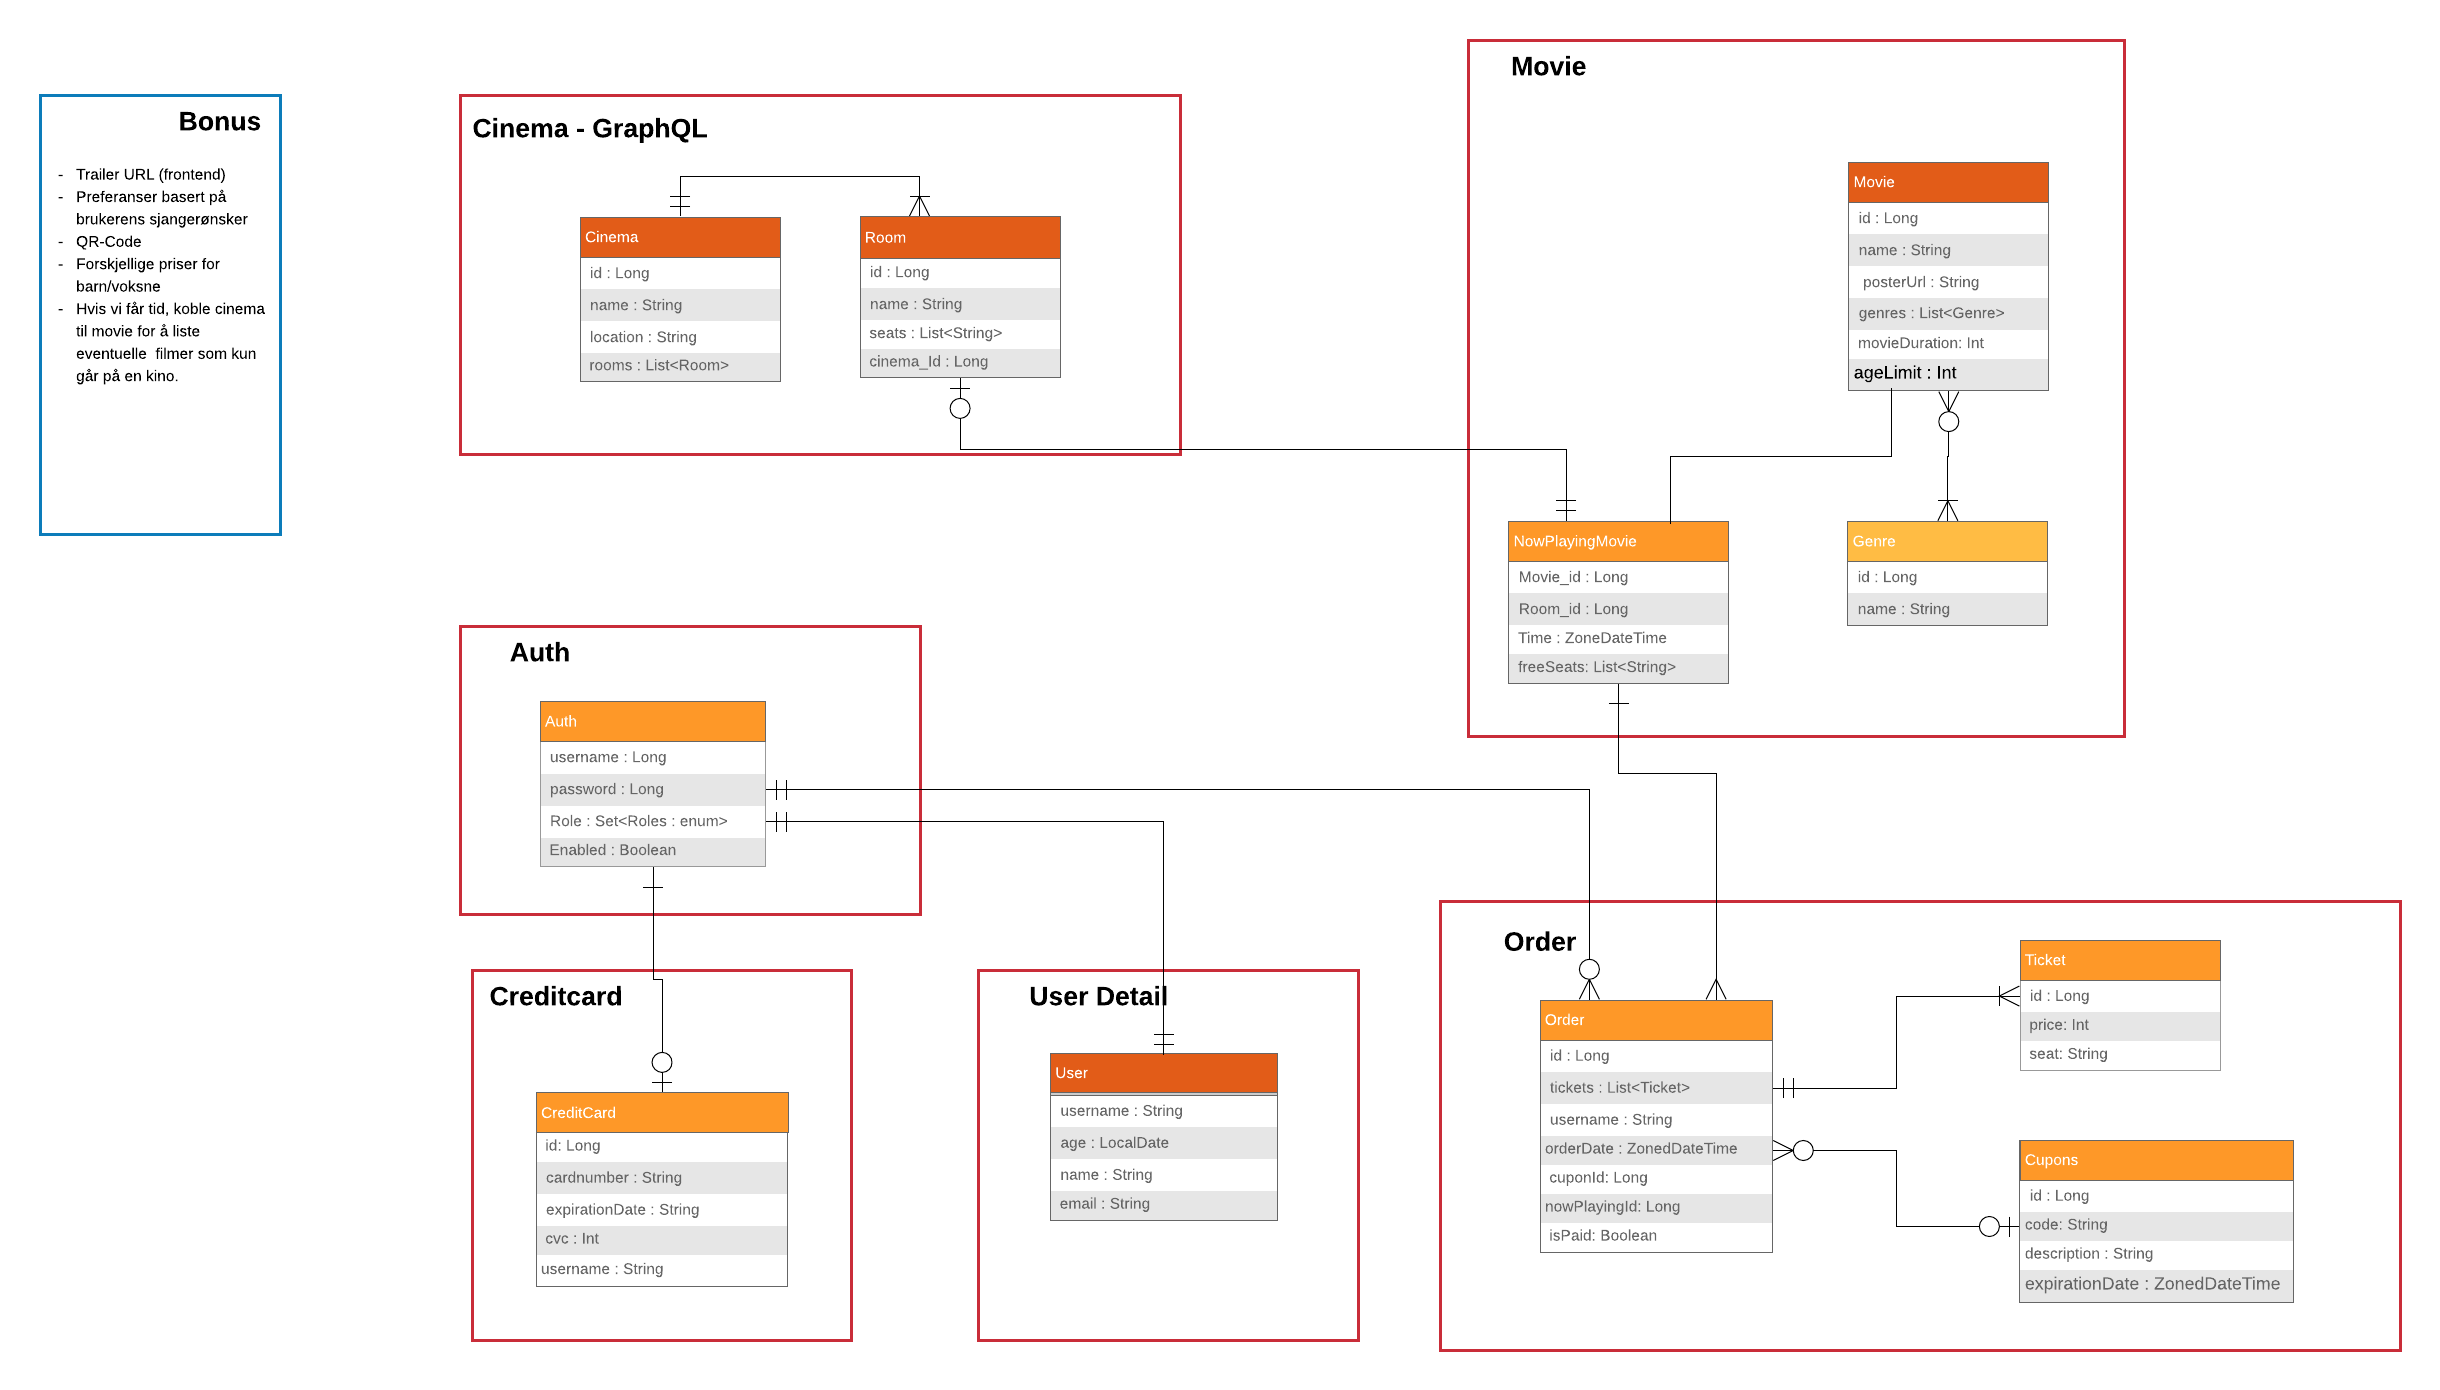
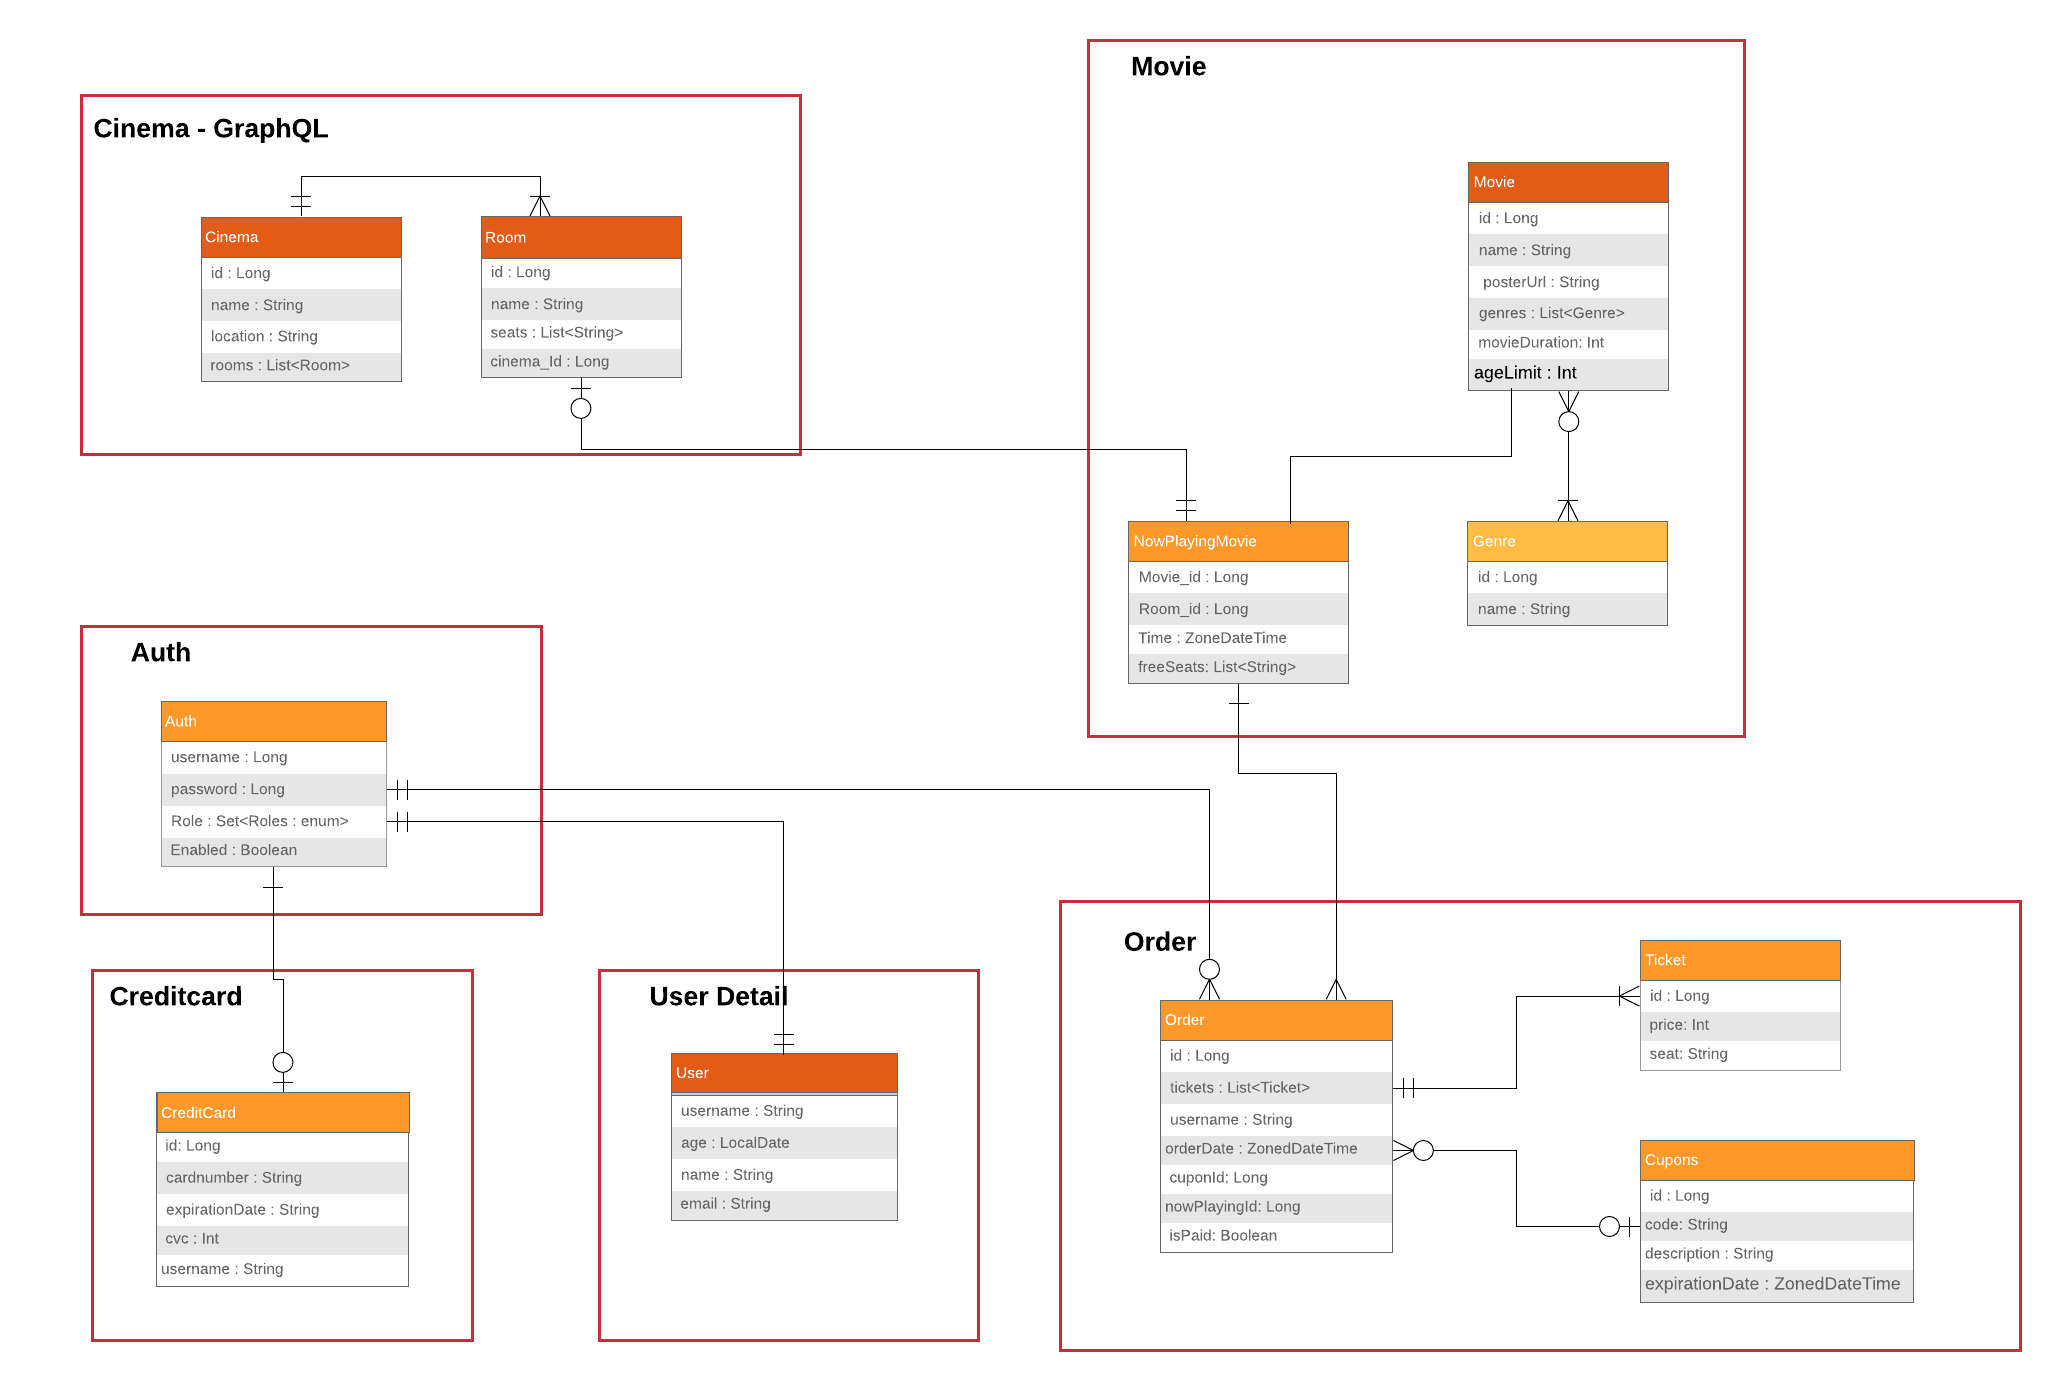
readme

diff --git a/README.md b/README.md
@@ -17,7 +17,7 @@
 1. [Exam 2018 Document](docs/PG6100Exam.pdf)   
 2. [Distribution of work](docs/workdistribution.md)
 3. [Git Structure](docs/git.md)    
-4. [Database Model](docs/databasemodel.md)    
+4. [Database Model](docs/imgs/EarDiadram(1).png)    
 5. [Module Diagram](docs/modulediagram.md)  
 6. [Coverage Report](docs/coveragereport.md)  
 7. [Default Data](docs/defaultdata.md)  
@@ -35,7 +35,7 @@ This Cinema Application is an exam project in PG6100 - Enterprise 2.
   
 ## How to run
 **Make sure that your Docker desktop-application has allocated enough CPU-cores and RAM!!** 
-**When we developed this application we have allocated 4-cores and 8GB of RAM**
+**When we developed this application we have allocated 4-cores and 10GB of RAM**
 
 1. Clone or fork this project.
 2. To install the application:
@@ -44,14 +44,18 @@ This Cinema Application is an exam project in PG6100 - Enterprise 2.
         - If you run without tests and your computer supports hyperthreading you can optimize the installment process by doing this cmd instead `mvn -T 2C clean install -DskipTests`.
 3. Run `docker-compose up` you can add `-d` flag for detach mode.
 4. Run the DefaultData script, as described in this file [Default Data](docs/defaultdata.md)
+    - After this there are two available users, one admin and one user. if you want to make a new admin user you need to insert this 
+    key/value pair in the create registrationDto: `"secretPassword": "2y12wePwvk5P63kb8XqlvXcWeqpW6cNdbY8xPn6gazUIRMhJTYuBfvW6"` together with the rest of the user information. 
+    - login details for admin is: `admin/admin`
+    - login details for user is `foo/foo` 
 5. Visit the application on [localhost:8080](http://localhost:8080)
 6. Enjoy :)
 
 **Run individual modules** <br/>
 Since this is a microservice application, you can run each component/module individually, but with limited functionality. No communication with other external components/modules will work. <br/>
-Ex. If you want to create a new NowPlaying, the service needs to get information from a Cinema and Room to fill inn the seats available. This connection is mocked in the tests, 
+Ex. if you want to create a new NowPlaying, the service needs to get information from a Cinema and Room to fill inn the seats available. This connection is mocked in the tests, 
 but if you try to do a POST request directly to the service without running the cinema module as well this will fail with a 503. <br/>
-If you really want to run an component independently you can run the **LocalApplicationRunner** that is located in the the test folder for following modules: Cinema, CreditCard, Movie, Order, User. Eureka can also be ran seperatly, but this runner is licated in its main kotlin folder.
+If you really want to run an component independently you can run the **LocalApplicationRunner** that is located in the the test folder for following modules: Cinema, CreditCard, Movie, Order, User. Eureka can also be ran seperatly, but this runner is located in its main folder.
   
 ## How to test application  
 Every module contains unit tests for testing each service in isolation. When you install the application with `mvn clean install` these tests will run automatically.
@@ -60,8 +64,15 @@ Some tests are ignored by this command (ex. E2E-tests). To run these tests you n
 ## End-to-end-tests
 End-to-end tests is testing all of our controllers in an Docker environment made with Test-containers. <br/>
 We build the Docker environment with loading the same docker-compose.yml file that the application uses. 
-After this is up and running and are time cap'ed to 300 seconds. After this we test all the available moules to check if they work as intended.
-First we do a POST request to create a resource and asserts that we gan get it with an valid session.
+After this is up and running and are time cap'ed to 300 seconds. After this we test all the available modules to check if they work as intended.
+
+Here we have tested several endpoints against our whole microservices.
+
+We have one file for testing the authentication and one for testing several endpoints against the microservice via gateway.
+
+We encountered that sometimes its fail to run `docker-compose up -d`, but after one retry it worked. So if some tests fail, just try to run again.
+
+Notice that you need to run `mvn clean install` to build the jar-files to tests the e2e-tests because its depends on jar files.
 
 
 ## Project structure
@@ -159,40 +170,44 @@ This module contains he following helpers:
 | Service | Local | Docker Gateway path |
 |--|--|--|
 | Authentication | -- | localhost:10000/auth-service/** |
-| Cinema | 7086 | localhost:10000/cinema-service/** |
-| CreditCard | 7085 | localhost:10000/creditcard-service/** |
-| Eureka | 8761 | localhost:9100/ |
-| Frontend | 8080 | localhost:8080/ |
-| Movie | 7083 | localhost:10000/movie-service/** |
-| Order | 7082 | localhost:10000/order-service/** |
-| User | 7081 | localhost:10000/user-service/** |
+| Cinema And Room | localhost:7086/cinemas/** | localhost:10000/cinema-service/** |
+| CreditCard | localhost:7085/graphql | localhost:10000/creditcard-service/graphql |
+| Eureka | localhost:8761 | localhost:9100 |
+| Frontend | localhost:8080 | localhost:8080 |
+| Movie | localhost:7083/movies/** | localhost:10000/movie-service/movies/** |
+| NowPlaying | localhost:7083/now-playings/** | localhost:10000/movie-service/now-playings/** |
+| Genre | localhost:7083/genres/** | localhost:10000/movie-service/genres/** |
+| Invoice | localhost:7082/invoices/** | localhost:10000/order-service/invoices/** |
+| Coupon | localhost:7082/coupons/** | localhost:10000/order-service/coupons/** |
+| Ticket | localhost:7082/tickets/** | localhost:10000/order-service/tickets/** |
+| User | localhost:7081/graphql | localhost:10000/user-service/graphql |
 
 
 ## Swagger & GraphiQL
-Some documentation on the setup an which HTTP-methods are available in an endpoint cam be found in swagger.
-Swagger is only available when you run the module with LocalApplicationRunner.
+| URL | Local Available | Docker Available |
+|--|--|--|
+| Authentication | NOT | localhost:10000/auth-service/swagger-ui.html |
+| Cinema And Room | localhost:7086/swagger-ui.html | localhost:10000/auth-service/swagger-ui.html |
+| CreditCard | localhost:7085/graphiql | NOT |
+| Movie | localhost:7083/swagger-ui.html | localhost:10000/movie-service/swagger-ui.html |
+| Invoice | localhost:7082/swagger-ui.html | localhost:10000/order-service/swagger-ui.html |
+| User | localhost:7081/graphiql | NOT |
 
-**Local**<br/>
-To find out which port the service is running on, please check the table above <br/>
-Swagger URL: http://localhost:PORT/swagger-ui.html
-GraphiQL URL: http://localhost:PORT/graphiql
+All these have username/password: `admin/admin`
 
-**Docker**
-To find out which gateway path the service is running on, please check the table above <br/>
-GraphiQL is accessible, but SpringWebSecurity blocks all queries when run in docker
-Swagger URL: http://localhost:10000/Docker-Gateway-path/swagger-ui.html
-GraphiQL URL: http://localhost:10000/Docker-Gateway-path/graphiql
+GraphiQL is not accessible when running in Docker, because SpringWebSecurity blocks all queries when run in docker
+
 
 ## Bugs in the code
 ### Creation of a Invoice
-The internal patch call from Invoice-Service to NowPlayingService gets stripped of the authentication headers, 
-we are fully aware of that this is a security hole in our solution.
+The internal patch call from Invoice-Service to NowPlaying-Service gets stripped of the authentication headers, 
+we are fully aware of that this is only known security hole in our application.
 But for this exam and for you to be able to test all our core functionality we had to permit all communication to the 
 PATCH method in NowPlayingService in WebSecurityConfig. <br/>
 But the POST method in Invoice-Service is secured with authenticated in WebSecurityConfig so by using the frontend 
 there is no way for a unauthenticated user to do a PATCH-request. Unless s/he knows how to use a terminal ;) 
 
 ## Future improvements
-- Creditcards, we didn't have the time to implement this feature for this exam, but for future improvements we would 
-have made a payment system where a user could save a CreditCard for later use. For future improvements for this feature we also want to implement and
-use the Luhn Algoritm for validation of CreditCard numbers.
+- Creditcards, for future improvements we would have made a payment system where a user can be charged from the creditcard after check in credit-card service. 
+User can now select to save their creditcard in the database for easier to not enter it again in next order.
+We also wanted to use the Luhn Algoritm for validation of CreditCard numbers, but we didnt do it because then you need to really add a valid creditcard.

diff --git a/docs/modulediagram.md b/docs/modulediagram.md
@@ -6,7 +6,7 @@
 - Dotted lines are showing the communication between Redis and the services.
 - Whole lines are showing direct communication between services.
 - Yellow boxes represents services in the application
-- Green boxes represents duplicates of the same service
+- Orange box represents duplicates of the same service
 
 **Tech deciption:**
 - Redis is used to store distributed user session tokens
